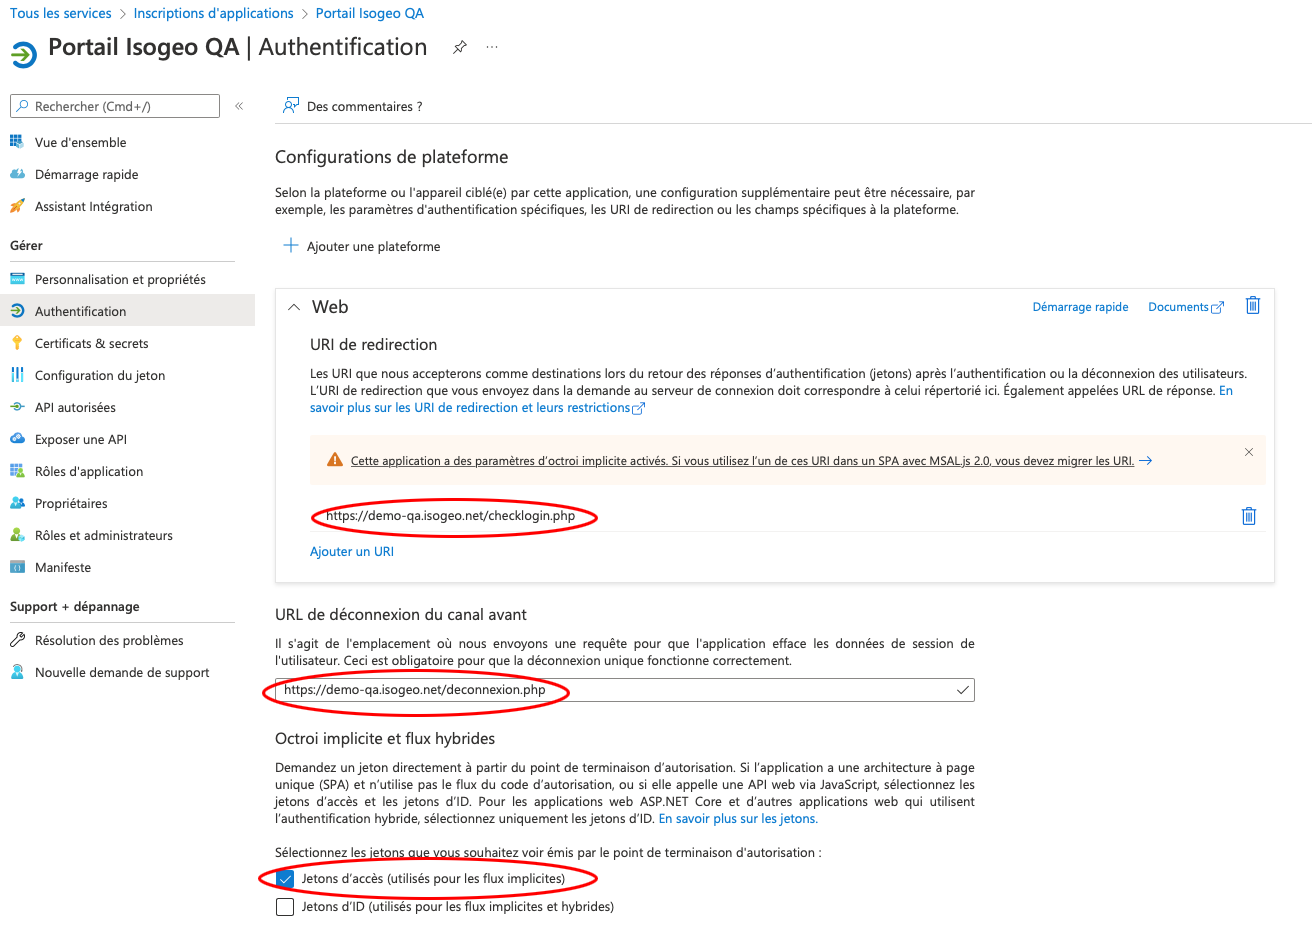
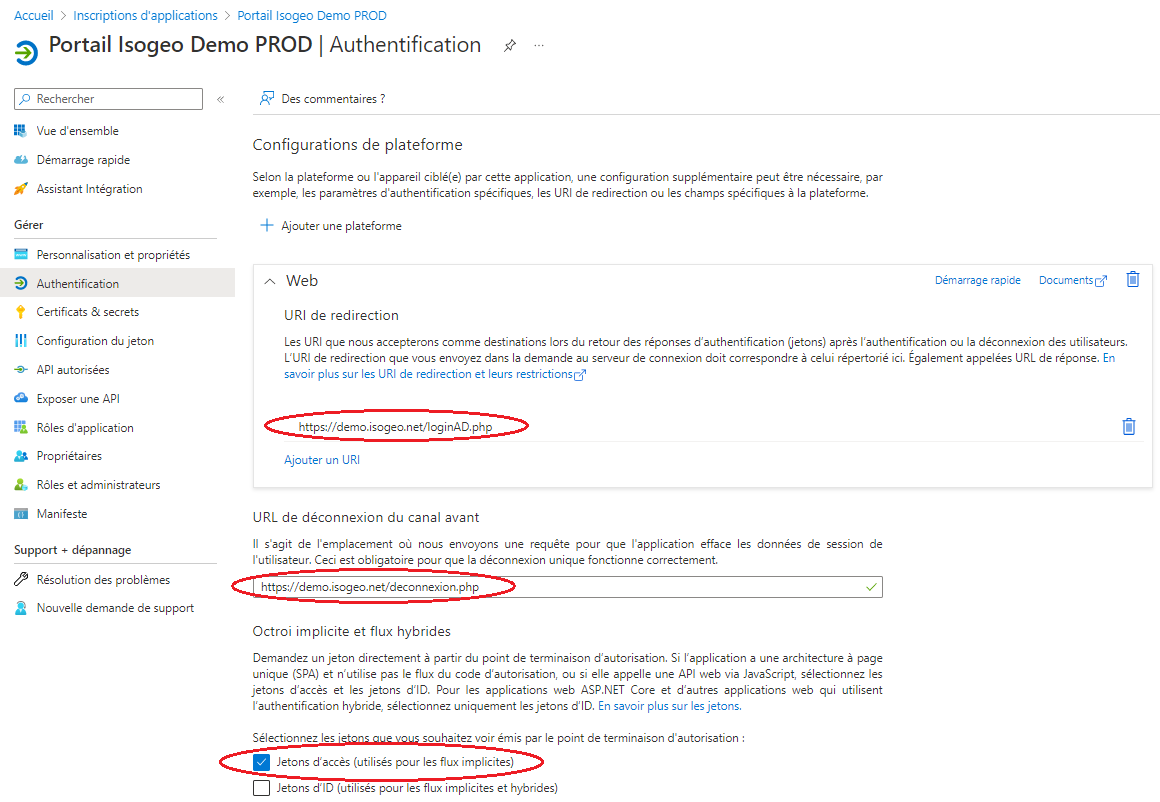
Update AzureAD configuration

Changed region(s): [[0.1862, 0.0935, 1.0, 0.9975], [0.0, 0.0, 0.4034, 0.7793]]

diff --git a/fr/appendices/azuread.md b/fr/appendices/azuread.md
@@ -3,34 +3,23 @@
 Il est possible de gérer l'authentification des utilisateurs du Portail directement depuis votre Active Directory AzureAD.
 
 1. Depuis la page d’accueil du [Portail Azure](https://portal.azure.com/#home), aller dans "Autres Services" puis choisir "Inscriptions d’applications" :
-
 ![Services Azure](/assets/AzureAD/services.png)
-
 2. Inscrire une nouvelle application selon la configuration ci-dessous
-
 ![Inscrire une application](/assets/AzureAD/register_application.png)
-
 3. Récupérer les informations suivantes :
-  
-ID d’application (parfois appelé « client ID »)
-ID de l’annuaire (parfois appelé « tenant »)
-
+   * ID d’application (parfois appelé « client ID »)
+   * ID de l’annuaire (parfois appelé « tenant »)
 ![Détail de l'application](/assets/AzureAD/application_detail.png)
-
 4. Créer un nouveau secret client dans le menu Certificats & secrets :
-
-ATTENTION : cet élément n’est lisible et copiable/collable qu'immédiatement après avoir été créé. On ne peut plus ensuite le récupérer, la seule solution étant alors de créer un nouveau secret client.
-
+> ATTENTION : cet élément n’est lisible et copiable/collable qu'immédiatement après avoir été créé. On ne peut plus ensuite le récupérer, la seule solution étant alors de créer un nouveau secret client.
 ![Créer un nouveau secret](/assets/AzureAD/new_client_secret.png)
-
 5. Ouvrir le menu Authentification
 6. Ajouter une plateforme de type Web
 7. Indiquer les url(s) de connexion et de deconnexion et cocher la case "Jetons d’accès (utilisés pour les flux implicites)"
-
+   * https://domaine.com/loginAD.php
+   * https://domaine.com/deconnexion
 ![Configuration des urls](/assets/AzureAD/configure_url.png)
-
 8. Renseigner les informations récupérées (Annuaire ID, Application ID et Secret Client) dans les paramètres généraux du Portail en choisissant le type d'authentification Azure AD
-
 ![Configuration des paramètres Azure AD dans le back-office](/assets/AzureAD/back_office_azuread_configuration.png)
 
 Vous pouvez choisir de conserver également le système d'authentification natif du Portail. Les deux solutions seront ansi proposées côté front.
